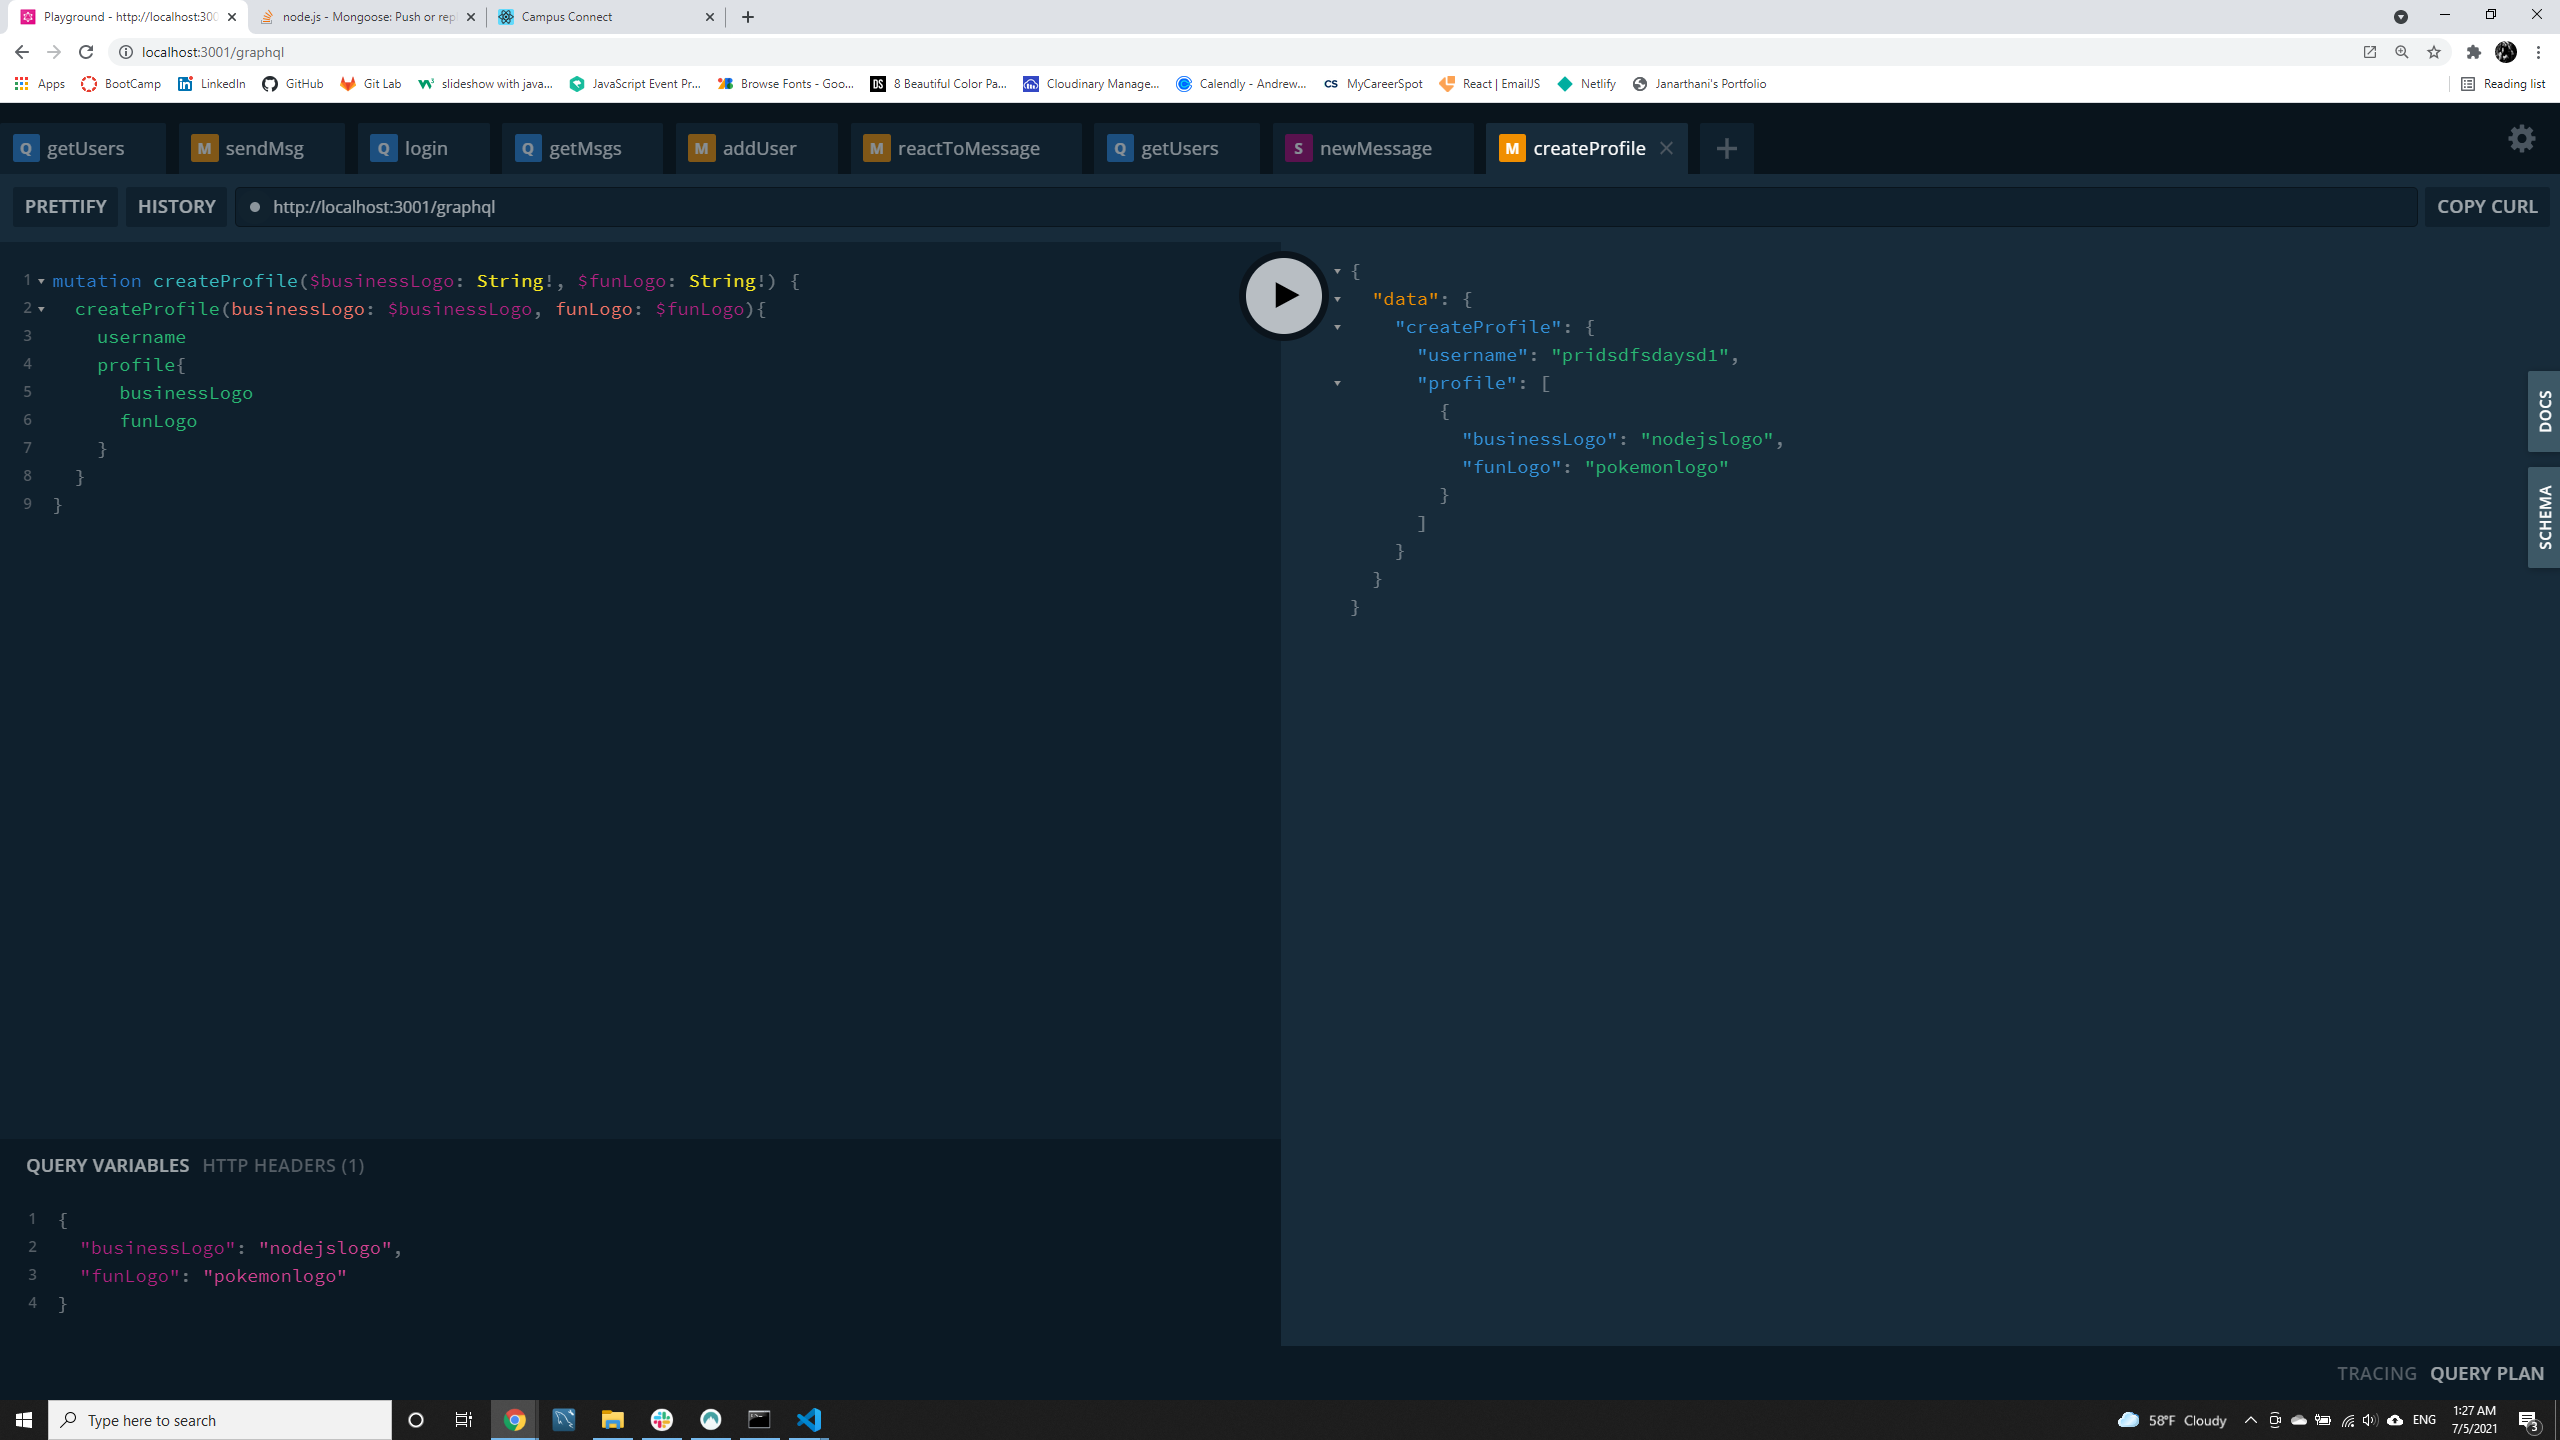
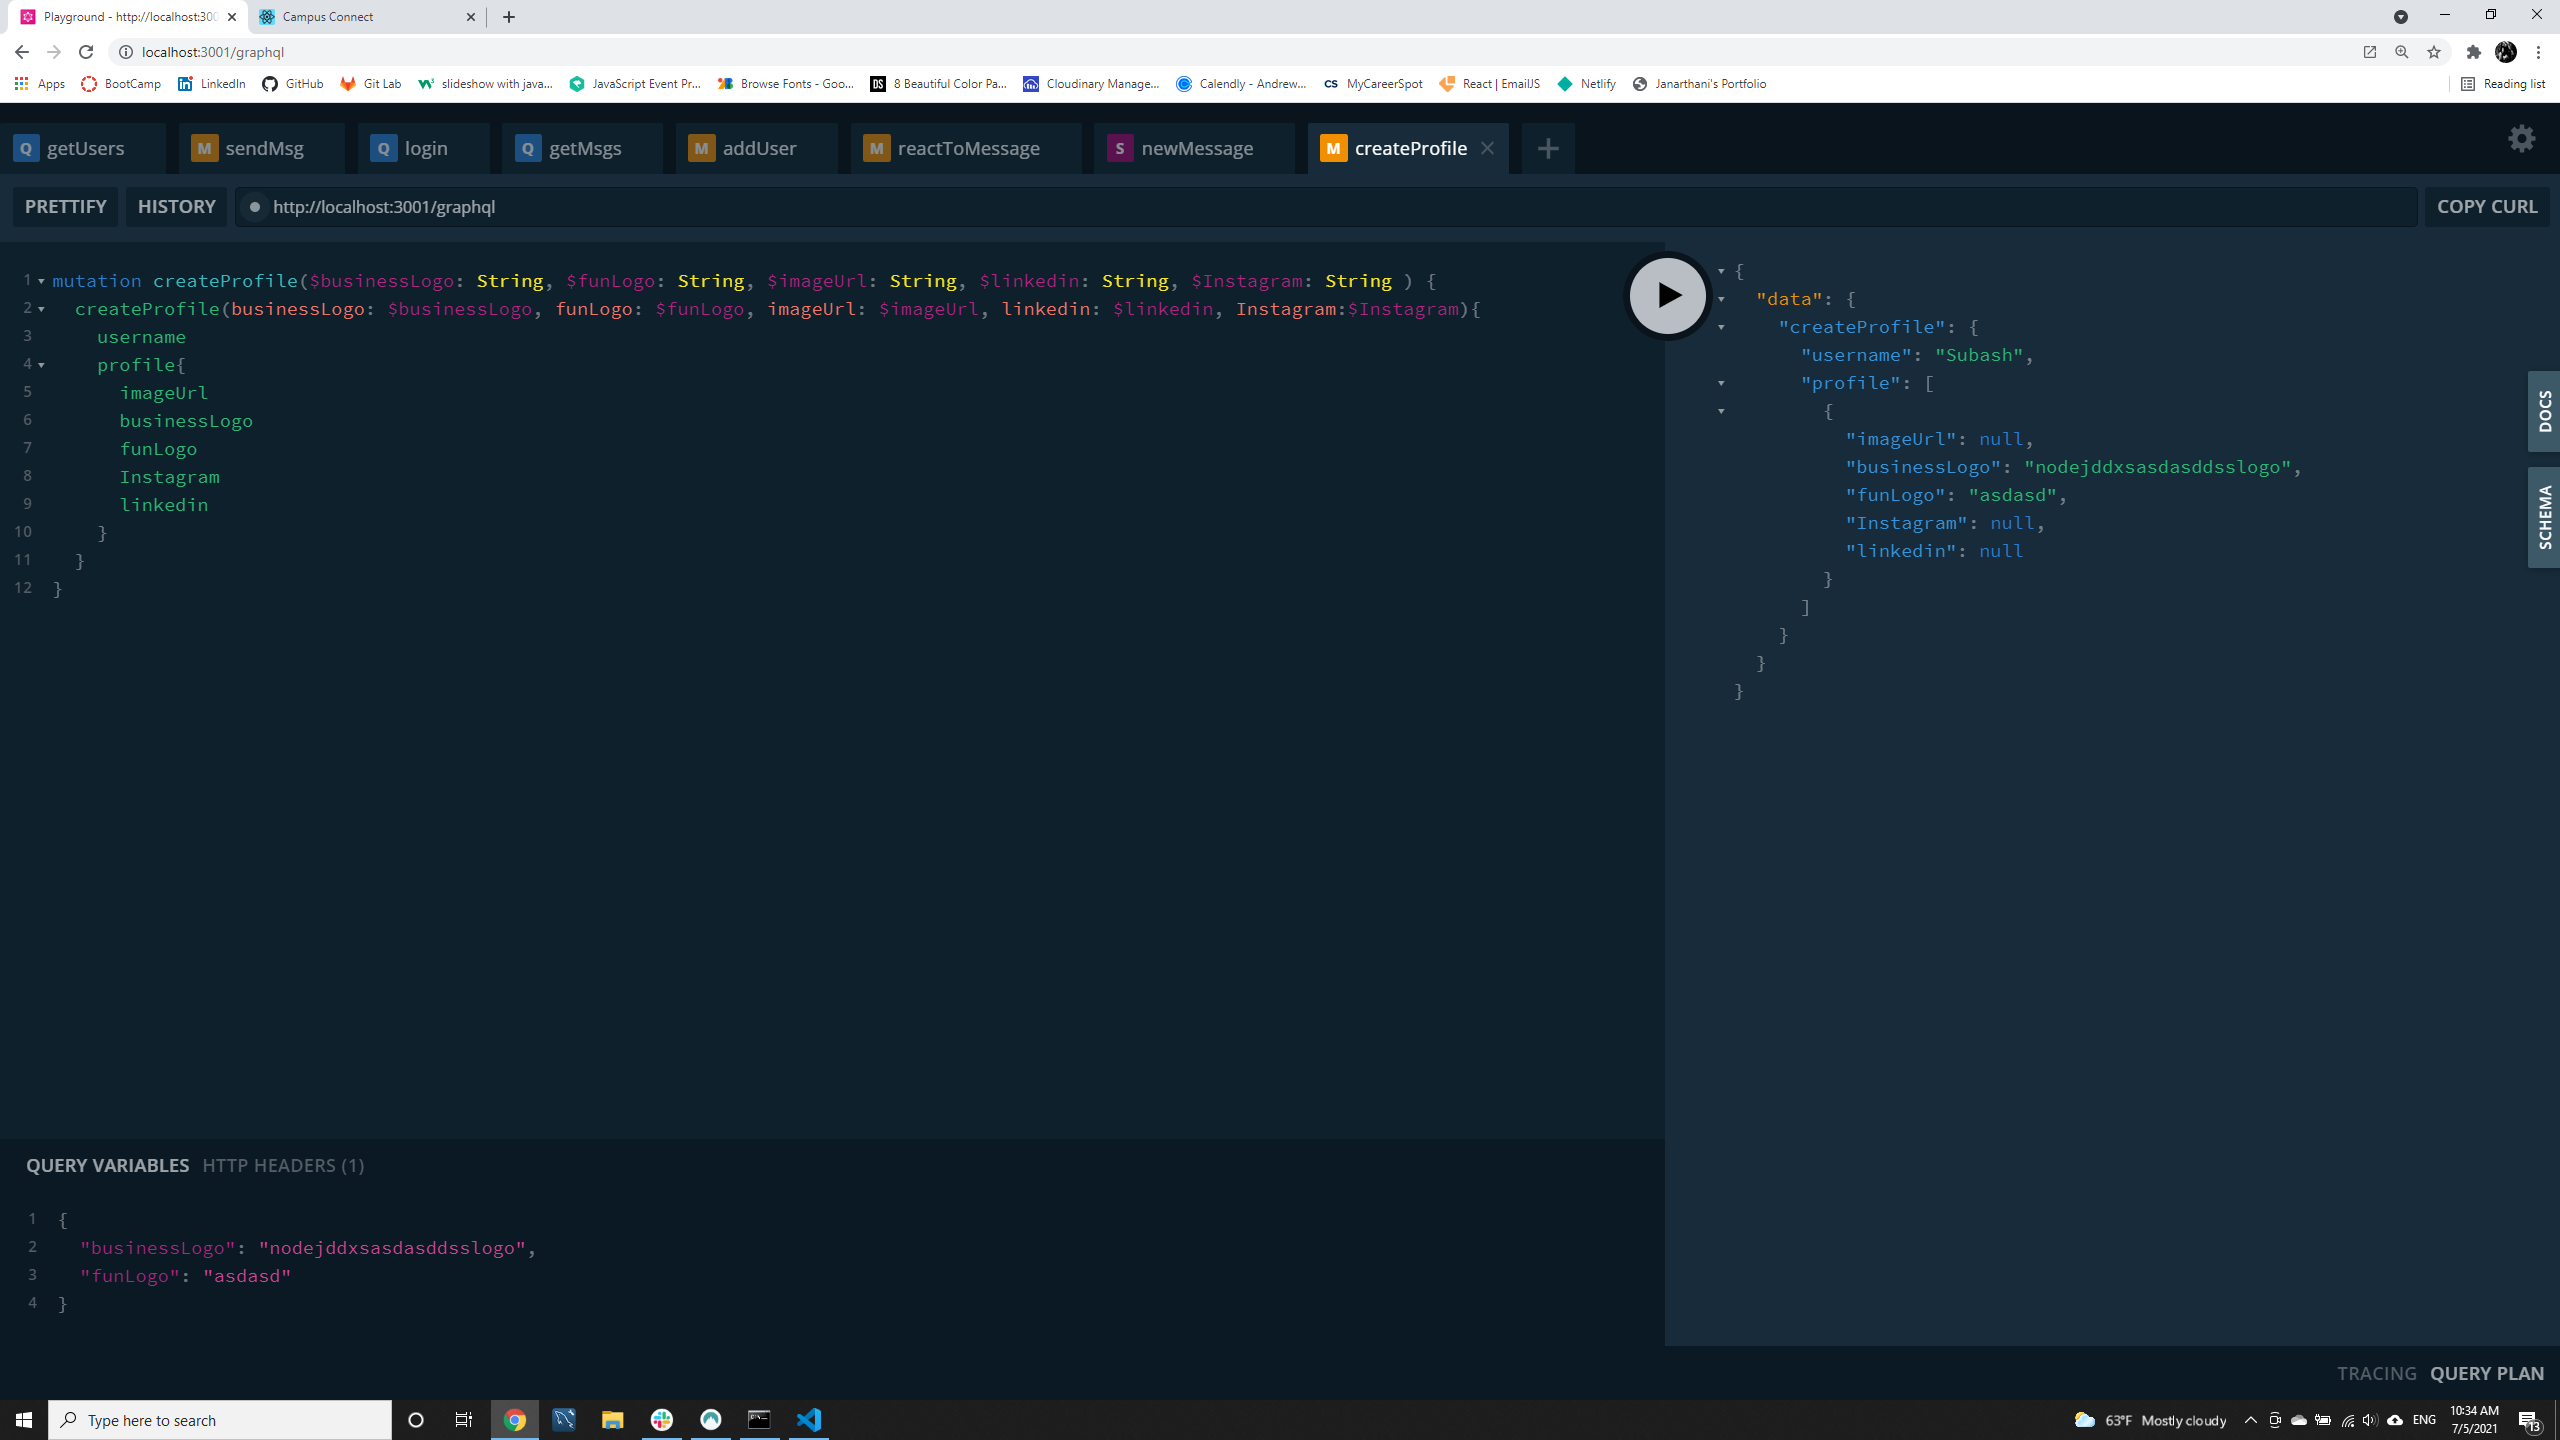
mutations synced with front-end

diff --git a/server/schemas/typeDefs.js b/server/schemas/typeDefs.js
@@ -8,7 +8,6 @@ type User {
   email: String
   token: ID!
   createdAt: String!
-  imageUrl: String
   latestMessage: Message
   profile: [Profile]
 }
@@ -29,10 +28,11 @@ type Reaction {
     user: User!
   }
   type Profile {
-    funLogo: String,
-    businessLogo: String,
-    linkedin: String,
-    Instagram: String,
+    imageUrl: String
+    funLogo: String
+    businessLogo: String
+    linkedin: String
+    Instagram: String
   }
 type Query {
   login(username: String!, password: String!): User!
@@ -43,7 +43,7 @@ type Mutation {
   addUser(username: String!, email: String!, password: String!): User!
   sendMsg(to:String! msg:String!): Message!
   reactToMessage(messageId: ID!, content: String!): Message!
-  createProfile(businessLogo: String!, funLogo: String!): User!
+  createProfile(businessLogo: String, funLogo: String, imageUrl: String, linkedin: String, Instagram: String): User!
 }
 type Subscription {
     newMessage: Message!

diff --git a/server/schemas/resolvers/users.js b/server/schemas/resolvers/users.js
@@ -92,11 +92,11 @@ module.exports = {
         // throw error if the user is not logged in
         if (!context.user) throw new AuthenticationError('Not logged in');
         const user = context.user.data.username;
-        // console.log(user);
-        const { businessLogo, funLogo } = args;
+        console.log(args);
+        const { businessLogo, funLogo, imageUrl, linkedin, Instagram } = args;
         const updatedUser = await User.findOneAndUpdate(
           { username: user },
-          { $set: { profile: { businessLogo, funLogo } } },
+          { $set: { profile: { businessLogo, funLogo, imageUrl, linkedin, Instagram } } },
           { new: true }
         );
         console.log(updatedUser);

diff --git a/client/src/utils/mutations.js b/client/src/utils/mutations.js
@@ -7,7 +7,6 @@ mutation addUser($username: String!, $email: String!, $password: String!) {
         _id
         username
     email
-    imageUrl
     createdAt
     }
   }
@@ -34,6 +33,20 @@ mutation sendMsg($to: String!, $msg: String!) {
     to
     msg
     createdAt
+  }
+}
+`
+export const CREATE_PROFILE = gql`
+mutation createProfile($businessLogo: String, $funLogo: String, $imageUrl: String, $linkedin: String, $Instagram: String ) {
+  createProfile(businessLogo: $businessLogo, funLogo: $funLogo, imageUrl: $imageUrl, linkedin: $linkedin, Instagram:$Instagram){  
+    username
+    profile{
+      imageUrl
+      businessLogo
+      funLogo
+      Instagram
+      linkedin
+    }
   }
 }
 `

diff --git a/client/src/utils/queries.js b/client/src/utils/queries.js
@@ -5,9 +5,6 @@ export const LOGIN_USER = gql`
     login(username: $username, password: $password) {
       username
       email
-      createdAt
-      businessLogo
-      funLogo
       token
     }
   }
@@ -19,14 +16,19 @@ query getUsers {
     username
     email
     createdAt
-    businessLogo
-    funLogo
     latestMessage {
       _id
       from
       to
       msg
       createdAt
+    }
+    profile {
+    imageUrl
+      funLogo
+      businessLogo
+      linkedin
+      Instagram
     }
   }
 }

diff --git a/server/models/Profile.js b/server/models/Profile.js
@@ -2,6 +2,9 @@ const { Schema } = require('mongoose');
 
 const profileSchema = new Schema(
     {
+        imageUrl: {
+            type: String,
+        },
         funLogo: {
             type: String,
             default: "https://res.cloudinary.com/www-actionnetwork-com/image/upload/v1625022844/Frame_5_jpasit.png"

diff --git a/client/src/components/Footer/Footer.js b/client/src/components/Footer/Footer.js
@@ -64,7 +64,7 @@ const Footer = props => {
 			justifyContent: 'space-evenly',
 			flexDirection: 'row',
 			paddingBottm: '0.5rem',
-			boxShadow: '4px 2px 2px 2px #073057d4',
+			// boxShadow: '4px 2px 2px 2px #073057d4',
 
 		},
 		avatar: {

diff --git a/server/models/User.js b/server/models/User.js
@@ -22,9 +22,6 @@ const userSchema = new Schema(
       required: true,
       minlength: 5
     },
-    imageUrl: {
-      type: String,
-    },
     createdAt: {
       type: Date,
       default: Date.now,
